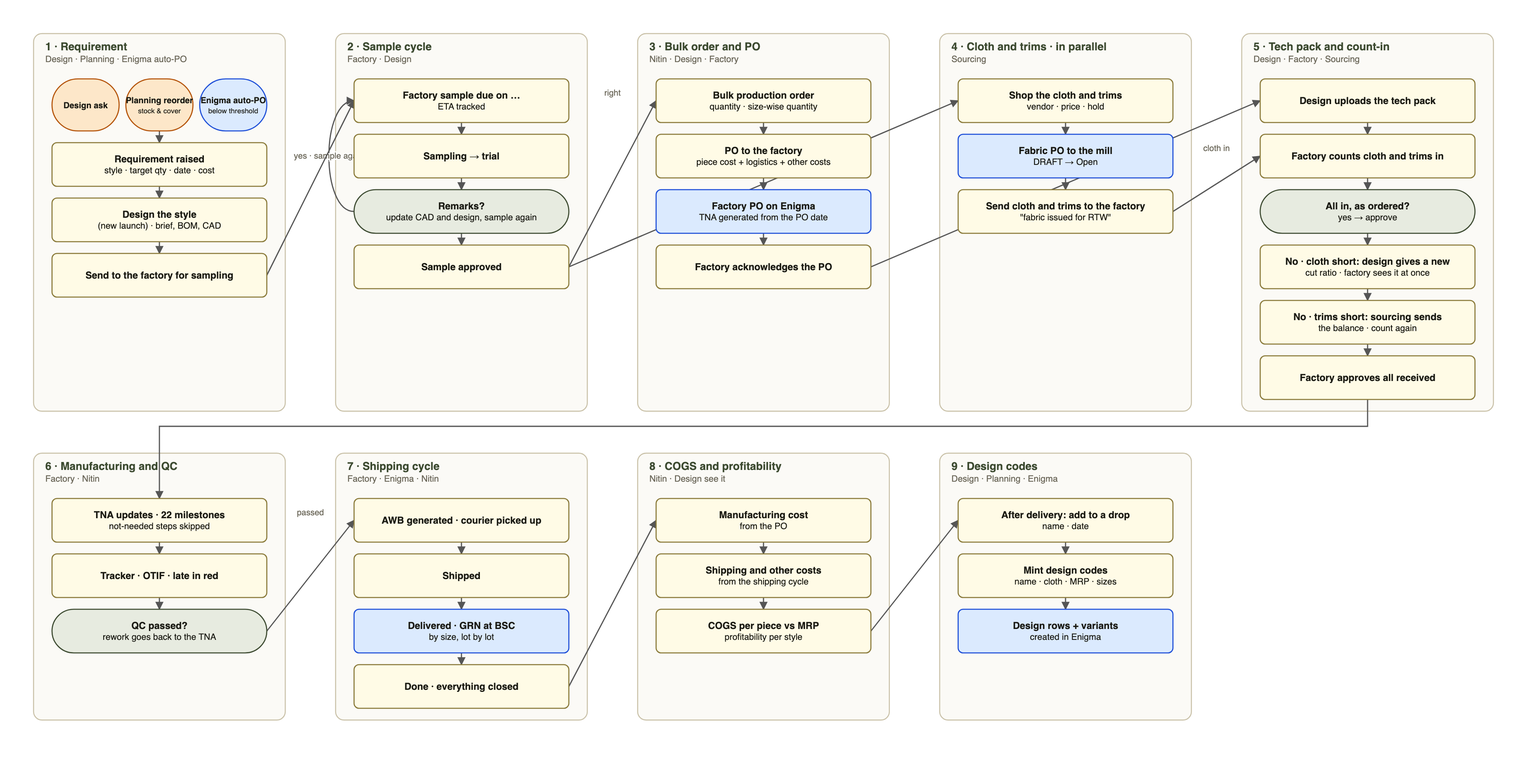
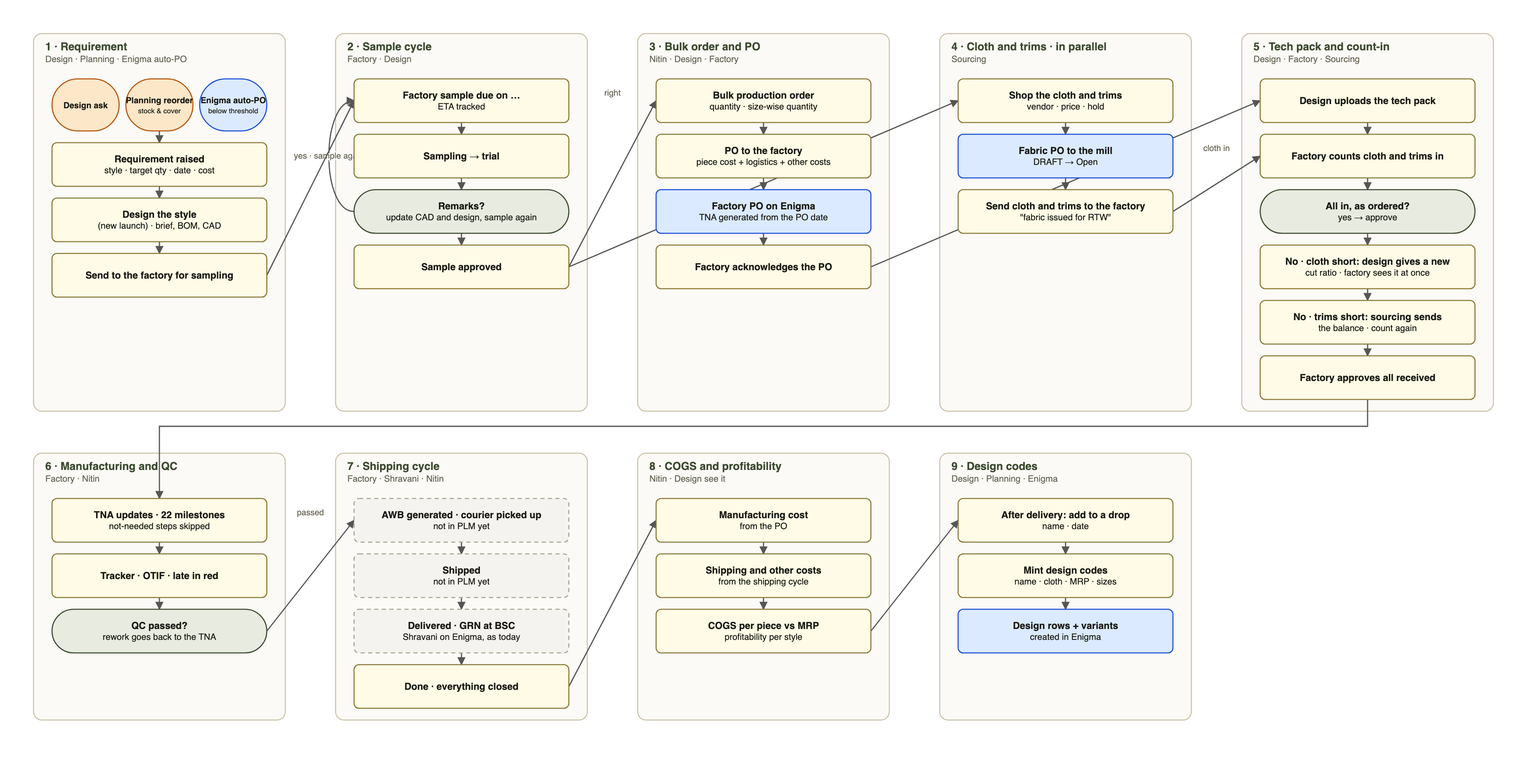
RTW diagrams: AWB/courier/shipped and the GRN marked as outside PLM for now (dashed, muted); GRN stays with Shravani on Enigma

Changed region(s): [[0.2173, 0.6167, 0.3725, 0.8634]]

diff --git a/public/docs/bsc-plm-rtw-modules.html b/public/docs/bsc-plm-rtw-modules.html
@@ -1,6 +1,6 @@
 <!doctype html><html lang="en"><head><meta charset="utf-8"><meta name="viewport" content="width=device-width, initial-scale=1"><title>RTW modules v2</title>
 <style>body{margin:0;background:#fff;color:#1a1a13;font-family:Inter,system-ui,sans-serif;padding:24px}h1{font-size:22px;margin:0 0 4px}p{margin:0 0 14px;color:#6b6759;font-size:13.5px}.legend{display:flex;gap:16px;font-size:12px;color:#6b6759;margin-bottom:10px;flex-wrap:wrap}.legend i{display:inline-block;width:14px;height:10px;border:1.4px solid;border-radius:3px;vertical-align:middle;margin-right:4px}.wrap{overflow:auto;border:1px solid #e3ddcd;border-radius:8px}svg{display:block}</style></head>
-<body><h1>RTW in PLM · nine modules (v2, after the 12 Nov meeting)</h1><p>In BSC's order: design and the sample cycle first, then the bulk order and PO (with logistics and other costs, acknowledged by the factory) with sourcing shopping the cloth and trims in parallel, the tech pack and count-in (design's new cut ratio goes straight to the factory), manufacturing on the TNA, QC, the shipping cycle (AWB, courier, shipped, delivered, closed), COGS that Nitin and design see, then the design codes. A requirement starts three ways: a design ask, a planning reorder, or an Enigma auto-PO on a core style below its threshold. Also as <a href="bsc-plm-rtw-modules.drawio" download>a draw.io file</a>, <a href="bsc-plm-rtw-modules.svg" download>SVG</a>; see also the <a href="bsc-plm-rtw-flowchart.html">flowchart</a> and the <a href="bsc-plm-rtw-swimlane.html">swimlane</a>.</p><div class="legend"><span><i style="background:#fde7c9;border-color:#b45309;border-radius:8px"></i> how a requirement starts</span><span><i style="background:#fffbe6;border-color:#8a7a3a"></i> step in PLM</span><span><i style="background:#e7ebe0;border-color:#3c4a30;border-radius:10px"></i> decision</span><span><i style="background:#dbeafe;border-color:#1d4ed8"></i> on Enigma</span></div><div class="wrap"><svg xmlns="http://www.w3.org/2000/svg" viewBox="0 0 1820 908" style="width:100%;height:auto;min-width:1100px" font-family="Inter, Helvetica, Arial, sans-serif">
+<body><h1>RTW in PLM · nine modules (v2, after the 12 Nov meeting)</h1><p>In BSC's order: design and the sample cycle first, then the bulk order and PO (with logistics and other costs, acknowledged by the factory) with sourcing shopping the cloth and trims in parallel, the tech pack and count-in (design's new cut ratio goes straight to the factory), manufacturing on the TNA, QC, the shipping cycle (AWB, courier, shipped, delivered, closed), COGS that Nitin and design see, then the design codes. A requirement starts three ways: a design ask, a planning reorder, or an Enigma auto-PO on a core style below its threshold. Also as <a href="bsc-plm-rtw-modules.drawio" download>a draw.io file</a>, <a href="bsc-plm-rtw-modules.svg" download>SVG</a>; see also the <a href="bsc-plm-rtw-flowchart.html">flowchart</a> and the <a href="bsc-plm-rtw-swimlane.html">swimlane</a>.</p><div class="legend"><span><i style="background:#fde7c9;border-color:#b45309;border-radius:8px"></i> how a requirement starts</span><span><i style="background:#fffbe6;border-color:#8a7a3a"></i> step in PLM</span><span><i style="background:#e7ebe0;border-color:#3c4a30;border-radius:10px"></i> decision</span><span><i style="background:#dbeafe;border-color:#1d4ed8"></i> on Enigma</span><span><i style="background:#f4f3ef;border:1.4px dashed #a9a391"></i> outside PLM for now</span></div><div class="wrap"><svg xmlns="http://www.w3.org/2000/svg" viewBox="0 0 1820 908" style="width:100%;height:auto;min-width:1100px" font-family="Inter, Helvetica, Arial, sans-serif">
 <defs><marker id="a" viewBox="0 0 10 10" refX="9" refY="5" markerWidth="7" markerHeight="7" orient="auto-start-reverse"><path d="M0 0L10 5L0 10z" fill="#555"/></marker></defs>
 <rect width="1820" height="908" fill="#fff"/>
 <rect x="40" y="40" width="300" height="450" rx="10" fill="#fbfaf6" stroke="#c9c1a8" stroke-width="1.2"/>
@@ -16,7 +16,7 @@
 <rect x="40" y="540" width="300" height="318" rx="10" fill="#fbfaf6" stroke="#c9c1a8" stroke-width="1.2"/>
 <text x="54" y="560" font-size="13" font-weight="700" fill="#3c4a30">6 · Manufacturing and QC</text><text x="54" y="574" font-size="10.5" fill="#6b6759">Factory · Nitin</text>
 <rect x="400" y="540" width="300" height="318" rx="10" fill="#fbfaf6" stroke="#c9c1a8" stroke-width="1.2"/>
-<text x="414" y="560" font-size="13" font-weight="700" fill="#3c4a30">7 · Shipping cycle</text><text x="414" y="574" font-size="10.5" fill="#6b6759">Factory · Enigma · Nitin</text>
+<text x="414" y="560" font-size="13" font-weight="700" fill="#3c4a30">7 · Shipping cycle</text><text x="414" y="574" font-size="10.5" fill="#6b6759">Factory · Shravani · Nitin</text>
 <rect x="760" y="540" width="300" height="318" rx="10" fill="#fbfaf6" stroke="#c9c1a8" stroke-width="1.2"/>
 <text x="774" y="560" font-size="13" font-weight="700" fill="#3c4a30">8 · COGS and profitability</text><text x="774" y="574" font-size="10.5" fill="#6b6759">Nitin · Design see it</text>
 <rect x="1120" y="540" width="300" height="318" rx="10" fill="#fbfaf6" stroke="#c9c1a8" stroke-width="1.2"/>
@@ -130,13 +130,15 @@
 <rect x="62.0" y="726" width="256" height="52" rx="26" fill="#e7ebe0" stroke="#3c4a30" stroke-width="1.3"/>
 <text x="190.0" y="749.5" text-anchor="middle" font-size="11.5" font-weight="600" fill="#1a1a13">QC passed?</text>
 <text x="190.0" y="762.5" text-anchor="middle" font-size="10.5" font-weight="400" fill="#1a1a13">rework goes back to the TNA</text>
-<rect x="422.0" y="594" width="256" height="52" rx="6" fill="#fffbe6" stroke="#8a7a3a" stroke-width="1.3"/>
-<text x="550.0" y="624.0" text-anchor="middle" font-size="11.5" font-weight="600" fill="#1a1a13">AWB generated · courier picked up</text>
-<rect x="422.0" y="660" width="256" height="52" rx="6" fill="#fffbe6" stroke="#8a7a3a" stroke-width="1.3"/>
-<text x="550.0" y="690.0" text-anchor="middle" font-size="11.5" font-weight="600" fill="#1a1a13">Shipped</text>
-<rect x="422.0" y="726" width="256" height="52" rx="6" fill="#dbeafe" stroke="#1d4ed8" stroke-width="1.3"/>
+<rect x="422.0" y="594" width="256" height="52" rx="6" fill="#f4f3ef" stroke="#a9a391" stroke-width="1.3" stroke-dasharray="5 4"/>
+<text x="550.0" y="617.5" text-anchor="middle" font-size="11.5" font-weight="600" fill="#1a1a13">AWB generated · courier picked up</text>
+<text x="550.0" y="630.5" text-anchor="middle" font-size="10.5" font-weight="400" fill="#1a1a13">not in PLM yet</text>
+<rect x="422.0" y="660" width="256" height="52" rx="6" fill="#f4f3ef" stroke="#a9a391" stroke-width="1.3" stroke-dasharray="5 4"/>
+<text x="550.0" y="683.5" text-anchor="middle" font-size="11.5" font-weight="600" fill="#1a1a13">Shipped</text>
+<text x="550.0" y="696.5" text-anchor="middle" font-size="10.5" font-weight="400" fill="#1a1a13">not in PLM yet</text>
+<rect x="422.0" y="726" width="256" height="52" rx="6" fill="#f4f3ef" stroke="#a9a391" stroke-width="1.3" stroke-dasharray="5 4"/>
 <text x="550.0" y="749.5" text-anchor="middle" font-size="11.5" font-weight="600" fill="#1a1a13">Delivered · GRN at BSC</text>
-<text x="550.0" y="762.5" text-anchor="middle" font-size="10.5" font-weight="400" fill="#1a1a13">by size, lot by lot</text>
+<text x="550.0" y="762.5" text-anchor="middle" font-size="10.5" font-weight="400" fill="#1a1a13">Shravani on Enigma, as today</text>
 <rect x="422.0" y="792" width="256" height="52" rx="6" fill="#fffbe6" stroke="#8a7a3a" stroke-width="1.3"/>
 <text x="550.0" y="822.0" text-anchor="middle" font-size="11.5" font-weight="600" fill="#1a1a13">Done · everything closed</text>
 <rect x="782.0" y="594" width="256" height="52" rx="6" fill="#fffbe6" stroke="#8a7a3a" stroke-width="1.3"/>

diff --git a/public/docs/bsc-plm-rtw-flowchart.html b/public/docs/bsc-plm-rtw-flowchart.html
@@ -1,6 +1,6 @@
 <!doctype html><html lang="en"><head><meta charset="utf-8"><meta name="viewport" content="width=device-width, initial-scale=1"><title>RTW flowchart</title>
 <style>body{margin:0;background:#fff;color:#1a1a13;font-family:Inter,system-ui,sans-serif;padding:24px}h1{font-size:22px;margin:0 0 4px}p{margin:0 0 14px;color:#6b6759;font-size:13.5px}.legend{display:flex;gap:16px;font-size:12px;color:#6b6759;margin-bottom:10px}.legend i{display:inline-block;width:14px;height:10px;border:1.4px solid;border-radius:3px;vertical-align:middle;margin-right:4px}.wrap{overflow:auto;border:1px solid #e3ddcd;border-radius:8px}svg{display:block}</style></head>
-<body><h1>RTW in PLM · the flow, box by box (v2, after the 12 Nov meeting)</h1><p>The main line snakes left to right, then down and back. Once the sample is right, sourcing shops the cloth and trims in parallel with the bulk order and PO. At count-in: all in goes straight to approval; cloth short goes to design, whose new cut ratio the factory sees at once; trims short goes to sourcing for the balance. Blue boxes are Enigma. The chart ends at the design codes. Also as <a href="bsc-plm-rtw-flowchart.drawio" download>a draw.io file</a>, <a href="bsc-plm-rtw-flowchart.svg" download>SVG</a>, and <a href="bsc-plm-rtw-swimlane.html">the same flow as a swimlane</a>.</p><div class="legend"><span><i style="background:#fffbe6;border-color:#8a7a3a"></i> step in PLM</span><span><i style="background:#e7ebe0;border-color:#3c4a30;border-radius:10px"></i> decision</span><span><i style="background:#dbeafe;border-color:#1d4ed8"></i> on Enigma</span><span>reads left to right, then down and back</span></div><div class="wrap"><svg xmlns="http://www.w3.org/2000/svg" viewBox="0 0 1396 992" style="width:100%;height:auto;min-width:1100px" font-family="Inter, Helvetica, Arial, sans-serif">
+<body><h1>RTW in PLM · the flow, box by box (v2, after the 12 Nov meeting)</h1><p>The main line snakes left to right, then down and back. Once the sample is right, sourcing shops the cloth and trims in parallel with the bulk order and PO. At count-in: all in goes straight to approval; cloth short goes to design, whose new cut ratio the factory sees at once; trims short goes to sourcing for the balance. Blue boxes are Enigma. The chart ends at the design codes. Also as <a href="bsc-plm-rtw-flowchart.drawio" download>a draw.io file</a>, <a href="bsc-plm-rtw-flowchart.svg" download>SVG</a>, and <a href="bsc-plm-rtw-swimlane.html">the same flow as a swimlane</a>.</p><div class="legend"><span><i style="background:#fffbe6;border-color:#8a7a3a"></i> step in PLM</span><span><i style="background:#e7ebe0;border-color:#3c4a30;border-radius:10px"></i> decision</span><span><i style="background:#dbeafe;border-color:#1d4ed8"></i> on Enigma</span><span><i style="background:#f4f3ef;border:1.4px dashed #a9a391"></i> outside PLM for now</span><span>reads left to right, then down and back</span></div><div class="wrap"><svg xmlns="http://www.w3.org/2000/svg" viewBox="0 0 1396 992" style="width:100%;height:auto;min-width:1100px" font-family="Inter, Helvetica, Arial, sans-serif">
 <defs><marker id="a" viewBox="0 0 10 10" refX="9" refY="5" markerWidth="7" markerHeight="7" orient="auto-start-reverse"><path d="M0 0L10 5L0 10z" fill="#555"/></marker></defs>
 <rect width="1396" height="992" fill="#fff"/>
 <path d="M226 69.0L266 69.0" fill="none" stroke="#555" stroke-width="1.4" marker-end="url(#a)"/>
@@ -101,13 +101,14 @@
 <rect x="266" y="600" width="186" height="58" rx="28" fill="#e7ebe0" stroke="#3c4a30" stroke-width="1.4"/>
 <text x="274" y="612" font-size="9" fill="#6b6759" font-weight="600" letter-spacing=".06em">FACTORY</text>
 <text x="359.0" y="635.0" text-anchor="middle" font-size="11.5" font-weight="600" fill="#1a1a13">QC passed?</text>
-<rect x="492" y="600" width="186" height="58" rx="6" fill="#fffbe6" stroke="#8a7a3a" stroke-width="1.4"/>
+<rect x="492" y="600" width="186" height="58" rx="6" fill="#f4f3ef" stroke="#a9a391" stroke-width="1.4" stroke-dasharray="5 4"/>
 <text x="500" y="612" font-size="9" fill="#6b6759" font-weight="600" letter-spacing=".06em">FACTORY</text>
-<text x="585.0" y="635.0" text-anchor="middle" font-size="11.5" font-weight="600" fill="#1a1a13">AWB · courier · shipped</text>
-<rect x="718" y="600" width="186" height="58" rx="6" fill="#dbeafe" stroke="#1d4ed8" stroke-width="1.4"/>
+<text x="585.0" y="628.5" text-anchor="middle" font-size="11.5" font-weight="600" fill="#1a1a13">AWB · courier · shipped</text>
+<text x="585.0" y="641.5" text-anchor="middle" font-size="10.5" font-weight="400" fill="#1a1a13">not in PLM yet</text>
+<rect x="718" y="600" width="186" height="58" rx="6" fill="#f4f3ef" stroke="#a9a391" stroke-width="1.4" stroke-dasharray="5 4"/>
 <text x="726" y="612" font-size="9" fill="#6b6759" font-weight="600" letter-spacing=".06em">ENIGMA</text>
 <text x="811.0" y="628.5" text-anchor="middle" font-size="11.5" font-weight="600" fill="#1a1a13">Delivered · GRN</text>
-<text x="811.0" y="641.5" text-anchor="middle" font-size="10.5" font-weight="400" fill="#1a1a13">by size, lot by lot</text>
+<text x="811.0" y="641.5" text-anchor="middle" font-size="10.5" font-weight="400" fill="#1a1a13">Shravani on Enigma, as today</text>
 <rect x="944" y="600" width="186" height="58" rx="6" fill="#fffbe6" stroke="#8a7a3a" stroke-width="1.4"/>
 <text x="952" y="612" font-size="9" fill="#6b6759" font-weight="600" letter-spacing=".06em">NITIN</text>
 <text x="1037.0" y="628.5" text-anchor="middle" font-size="11.5" font-weight="600" fill="#1a1a13">Close the shipment</text>

diff --git a/public/docs/bsc-plm-rtw-swimlane.html b/public/docs/bsc-plm-rtw-swimlane.html
@@ -1,6 +1,6 @@
 <!doctype html><html lang="en"><head><meta charset="utf-8"><meta name="viewport" content="width=device-width, initial-scale=1"><title>RTW swimlane</title>
 <style>body{margin:0;background:#fff;color:#1a1a13;font-family:Inter,system-ui,sans-serif;padding:24px}h1{font-size:22px;margin:0 0 4px}p{margin:0 0 14px;color:#6b6759;font-size:13.5px}.legend{display:flex;gap:16px;font-size:12px;color:#6b6759;margin-bottom:10px}.legend i{display:inline-block;width:14px;height:10px;border:1.4px solid;border-radius:3px;vertical-align:middle;margin-right:4px}.wrap{overflow:auto;border:1px solid #e3ddcd;border-radius:8px}svg{display:block}</style></head>
-<body><h1>RTW in PLM · the complete flow, one lane per role (v2, after the 12 Nov meeting)</h1><p>Left to right: design and the sample cycle → the bulk order and PO, with sourcing shopping the cloth in parallel from the approved sample → count-in (all in, cloth short to design, trims short to sourcing) → make and QC → shipping and COGS (Nitin and design see it) → design codes. Planning sits in the Design lane. Blue boxes are what happens on Enigma. Also as <a href="bsc-plm-rtw-swimlane.drawio" download>a draw.io file</a> and <a href="bsc-plm-rtw-swimlane.svg" download>SVG</a>.</p><div class="legend"><span><i style="background:#fffbe6;border-color:#8a7a3a"></i> step in PLM</span><span><i style="background:#e7ebe0;border-color:#3c4a30;border-radius:10px"></i> decision</span><span><i style="background:#dbeafe;border-color:#1d4ed8"></i> on Enigma</span></div><div class="wrap"><svg xmlns="http://www.w3.org/2000/svg" viewBox="0 0 5250 640" style="width:100%;height:auto;min-width:1400px" font-family="Inter, Helvetica, Arial, sans-serif">
+<body><h1>RTW in PLM · the complete flow, one lane per role (v2, after the 12 Nov meeting)</h1><p>Left to right: design and the sample cycle → the bulk order and PO, with sourcing shopping the cloth in parallel from the approved sample → count-in (all in, cloth short to design, trims short to sourcing) → make and QC → shipping and COGS (Nitin and design see it) → design codes. Planning sits in the Design lane. Blue boxes are what happens on Enigma. Also as <a href="bsc-plm-rtw-swimlane.drawio" download>a draw.io file</a> and <a href="bsc-plm-rtw-swimlane.svg" download>SVG</a>.</p><div class="legend"><span><i style="background:#fffbe6;border-color:#8a7a3a"></i> step in PLM</span><span><i style="background:#e7ebe0;border-color:#3c4a30;border-radius:10px"></i> decision</span><span><i style="background:#dbeafe;border-color:#1d4ed8"></i> on Enigma</span><span><i style="background:#f4f3ef;border:1.4px dashed #a9a391"></i> outside PLM for now</span></div><div class="wrap"><svg xmlns="http://www.w3.org/2000/svg" viewBox="0 0 5250 640" style="width:100%;height:auto;min-width:1400px" font-family="Inter, Helvetica, Arial, sans-serif">
 <defs><marker id="a" viewBox="0 0 10 10" refX="9" refY="5" markerWidth="7" markerHeight="7" orient="auto-start-reverse"><path d="M0 0L10 5L0 10z" fill="#555"/></marker></defs>
 <rect width="5250" height="640" fill="#fff"/>
 <rect x="130" y="22" width="1370" height="26" rx="6" fill="#efeadf"/><text x="815.0" y="40" text-anchor="middle" font-size="13" font-weight="600" fill="#3c4a30">Design · sample</text>
@@ -137,12 +137,12 @@
 <rect x="3600" y="427.0" width="190" height="56" rx="28" fill="#e7ebe0" stroke="#3c4a30" stroke-width="1.4"/>
 <text x="3695.0" y="452.0" text-anchor="middle" font-size="11.5" font-weight="600" fill="#1a1a13">QC passed?</text>
 <text x="3695.0" y="466.0" text-anchor="middle" font-size="10.5" font-weight="400" fill="#1a1a13">or rework</text>
-<rect x="3830" y="427.0" width="190" height="56" rx="6" fill="#fffbe6" stroke="#8a7a3a" stroke-width="1.4"/>
-<text x="3925.0" y="452.0" text-anchor="middle" font-size="11.5" font-weight="600" fill="#1a1a13">AWB · courier</text>
-<text x="3925.0" y="466.0" text-anchor="middle" font-size="10.5" font-weight="400" fill="#1a1a13">shipped</text>
-<rect x="4060" y="537.0" width="190" height="56" rx="6" fill="#dbeafe" stroke="#1d4ed8" stroke-width="1.4"/>
+<rect x="3830" y="427.0" width="190" height="56" rx="6" fill="#f4f3ef" stroke="#a9a391" stroke-width="1.4" stroke-dasharray="5 4"/>
+<text x="3925.0" y="452.0" text-anchor="middle" font-size="11.5" font-weight="600" fill="#1a1a13">AWB · courier · shipped</text>
+<text x="3925.0" y="466.0" text-anchor="middle" font-size="10.5" font-weight="400" fill="#1a1a13">not in PLM yet</text>
+<rect x="4060" y="537.0" width="190" height="56" rx="6" fill="#f4f3ef" stroke="#a9a391" stroke-width="1.4" stroke-dasharray="5 4"/>
 <text x="4155.0" y="562.0" text-anchor="middle" font-size="11.5" font-weight="600" fill="#1a1a13">Delivered · GRN</text>
-<text x="4155.0" y="576.0" text-anchor="middle" font-size="10.5" font-weight="400" fill="#1a1a13">by size, lot by lot</text>
+<text x="4155.0" y="576.0" text-anchor="middle" font-size="10.5" font-weight="400" fill="#1a1a13">Shravani on Enigma, as today</text>
 <rect x="4290" y="317.0" width="190" height="56" rx="6" fill="#fffbe6" stroke="#8a7a3a" stroke-width="1.4"/>
 <text x="4385.0" y="342.0" text-anchor="middle" font-size="11.5" font-weight="600" fill="#1a1a13">Close the shipment</text>
 <text x="4385.0" y="356.0" text-anchor="middle" font-size="10.5" font-weight="400" fill="#1a1a13">shipping cost</text>

diff --git a/public/docs/.modules.py b/public/docs/.modules.py
@@ -32,10 +32,10 @@ M = [
    ('m1','TNA updates · 22 milestones\nnot-needed steps skipped','step'),
    ('m2','Tracker · OTIF · late in red','step'),
    ('q2','QC passed?\nrework goes back to the TNA','decision')]),
- ('ship','7 · Shipping cycle','Factory · Enigma · Nitin',[
-   ('x1','AWB generated · courier picked up','step'),
-   ('x2','Shipped','step'),
-   ('x3','Delivered · GRN at BSC\nby size, lot by lot','system'),
+ ('ship','7 · Shipping cycle','Factory · Shravani · Nitin',[
+   ('x1','AWB generated · courier picked up\nnot in PLM yet','outside'),
+   ('x2','Shipped\nnot in PLM yet','outside'),
+   ('x3','Delivered · GRN at BSC\nShravani on Enigma, as today','outside'),
    ('x4','Done · everything closed','step')]),
  ('cogs','8 · COGS and profitability','Nitin · Design see it',[
    ('c1','Manufacturing cost\nfrom the PO','step'),
@@ -51,8 +51,9 @@ INTER=[('r3','s1',''),('s4','p1','right'),('s4','h1','right · in parallel'),('p
 LOOPS=[('s3','s1','yes · sample again')]
 # layout
 COLS=5; MW=300; NW=256; NH=52; GAP=14; PAD=14; HEAD=40; MX=40; MY=40; GX=MW+60; SRC_W=76
-FILL={'step':'#fffbe6','decision':'#e7ebe0','system':'#dbeafe','source':'#fde7c9','sourcesys':'#dbeafe'}
-STROKE={'step':'#8a7a3a','decision':'#3c4a30','system':'#1d4ed8','source':'#b45309','sourcesys':'#1d4ed8'}
+FILL={'step':'#fffbe6','decision':'#e7ebe0','system':'#dbeafe','source':'#fde7c9','sourcesys':'#dbeafe','outside':'#f4f3ef'}
+STROKE={'step':'#8a7a3a','decision':'#3c4a30','system':'#1d4ed8','source':'#b45309','sourcesys':'#1d4ed8','outside':'#a9a391'}
+DASHED=' stroke-dasharray="5 4"'
 def esc(s): return html.escape(s)
 def mod_height(nodes): return HEAD+PAD+sum((NH if k!='sourcesrow' else NH+10)+GAP for _,_,k in nodes)-GAP+PAD
 rows=[M[i:i+COLS] for i in range(0,len(M),COLS)]
@@ -106,16 +107,16 @@ for nid,(x,y0,w,h,kind,label) in pos.items():
             for j,t in enumerate(lines): svg.append(f'<text x="{sx+sw/2}" y="{y0+h/2+4+(j-(len(lines)-1)/2)*12}" text-anchor="middle" font-size="{10 if j==0 else 8.5}" font-weight="{600 if j==0 else 400}" fill="#1a1a13">{esc(t)}</text>')
         continue
     lines=label.split('\n')
-    svg.append(f'<rect x="{x}" y="{y0}" width="{w}" height="{h}" rx="{26 if kind=="decision" else 6}" fill="{FILL[kind]}" stroke="{STROKE[kind]}" stroke-width="1.3"/>')
+    svg.append(f'<rect x="{x}" y="{y0}" width="{w}" height="{h}" rx="{26 if kind=="decision" else 6}" fill="{FILL[kind]}" stroke="{STROKE[kind]}" stroke-width="1.3"{DASHED if kind=="outside" else ""}/>')
     for j,t in enumerate(lines): svg.append(f'<text x="{x+w/2}" y="{y0+h/2+4+(j-(len(lines)-1)/2)*13}" text-anchor="middle" font-size="{11.5 if j==0 else 10.5}" font-weight="{600 if j==0 else 400}" fill="#1a1a13">{esc(t)}</text>')
 svg.append('</svg>'); svg_text='\n'.join(svg); open(out_svg,'w').write(svg_text)
-legend='<div class="legend"><span><i style="background:#fde7c9;border-color:#b45309;border-radius:8px"></i> how a requirement starts</span><span><i style="background:#fffbe6;border-color:#8a7a3a"></i> step in PLM</span><span><i style="background:#e7ebe0;border-color:#3c4a30;border-radius:10px"></i> decision</span><span><i style="background:#dbeafe;border-color:#1d4ed8"></i> on Enigma</span></div>'
+legend='<div class="legend"><span><i style="background:#fde7c9;border-color:#b45309;border-radius:8px"></i> how a requirement starts</span><span><i style="background:#fffbe6;border-color:#8a7a3a"></i> step in PLM</span><span><i style="background:#e7ebe0;border-color:#3c4a30;border-radius:10px"></i> decision</span><span><i style="background:#dbeafe;border-color:#1d4ed8"></i> on Enigma</span><span><i style="background:#f4f3ef;border:1.4px dashed #a9a391"></i> outside PLM for now</span></div>'
 page=f'''<!doctype html><html lang="en"><head><meta charset="utf-8"><meta name="viewport" content="width=device-width, initial-scale=1"><title>RTW modules v2</title>
 <style>body{{margin:0;background:#fff;color:#1a1a13;font-family:Inter,system-ui,sans-serif;padding:24px}}h1{{font-size:22px;margin:0 0 4px}}p{{margin:0 0 14px;color:#6b6759;font-size:13.5px}}.legend{{display:flex;gap:16px;font-size:12px;color:#6b6759;margin-bottom:10px;flex-wrap:wrap}}.legend i{{display:inline-block;width:14px;height:10px;border:1.4px solid;border-radius:3px;vertical-align:middle;margin-right:4px}}.wrap{{overflow:auto;border:1px solid #e3ddcd;border-radius:8px}}svg{{display:block}}</style></head>
 <body><h1>RTW in PLM · nine modules (v2, after the 12 Nov meeting)</h1><p>In BSC's order: design and the sample cycle first, then the bulk order and PO (with logistics and other costs, acknowledged by the factory) with sourcing shopping the cloth and trims in parallel, the tech pack and count-in (design's new cut ratio goes straight to the factory), manufacturing on the TNA, QC, the shipping cycle (AWB, courier, shipped, delivered, closed), COGS that Nitin and design see, then the design codes. A requirement starts three ways: a design ask, a planning reorder, or an Enigma auto-PO on a core style below its threshold. Also as <a href="bsc-plm-rtw-modules.drawio" download>a draw.io file</a>, <a href="bsc-plm-rtw-modules.svg" download>SVG</a>; see also the <a href="bsc-plm-rtw-flowchart.html">flowchart</a> and the <a href="bsc-plm-rtw-swimlane.html">swimlane</a>.</p>{legend}<div class="wrap">{svg_text.replace(f'width="{width}" height="{height}"', 'style="width:100%;height:auto;min-width:1100px"',1)}</div></body></html>'''
 open(out_html,'w').write(page)
 # draw.io
-STY={'step':'rounded=0;whiteSpace=wrap;html=1;fillColor=#fffbe6;strokeColor=#8a7a3a;fontSize=11;','decision':'rounded=1;arcSize=50;whiteSpace=wrap;html=1;fillColor=#e7ebe0;strokeColor=#3c4a30;fontSize=11;','system':'rounded=0;whiteSpace=wrap;html=1;fillColor=#dbeafe;strokeColor=#1d4ed8;fontSize=11;','source':'ellipse;whiteSpace=wrap;html=1;fillColor=#fde7c9;strokeColor=#b45309;fontSize=10;','sourcesys':'ellipse;whiteSpace=wrap;html=1;fillColor=#dbeafe;strokeColor=#1d4ed8;fontSize=10;'}
+STY={'outside':'rounded=0;whiteSpace=wrap;html=1;fillColor=#f4f3ef;strokeColor=#a9a391;dashed=1;fontColor=#6b6759;fontSize=11;','step':'rounded=0;whiteSpace=wrap;html=1;fillColor=#fffbe6;strokeColor=#8a7a3a;fontSize=11;','decision':'rounded=1;arcSize=50;whiteSpace=wrap;html=1;fillColor=#e7ebe0;strokeColor=#3c4a30;fontSize=11;','system':'rounded=0;whiteSpace=wrap;html=1;fillColor=#dbeafe;strokeColor=#1d4ed8;fontSize=11;','source':'ellipse;whiteSpace=wrap;html=1;fillColor=#fde7c9;strokeColor=#b45309;fontSize=10;','sourcesys':'ellipse;whiteSpace=wrap;html=1;fillColor=#dbeafe;strokeColor=#1d4ed8;fontSize=10;'}
 cells=['<mxCell id="0"/>','<mxCell id="1" parent="0"/>']
 for k,t,w,nodes in M:
     x,y0,mw,mh=mpos[k]

diff --git a/public/docs/.swimlane.py b/public/docs/.swimlane.py
@@ -28,8 +28,8 @@ N = [
  ('f5','factory',14,'Make · log the TNA\n22 milestones','step'),
  ('n3','nitin',14,'Tracker · OTIF\nescalations','step'),
  ('f6','factory',15,'QC passed?\nor rework','decision'),
- ('f7','factory',16,'AWB · courier\nshipped','step'),
- ('e4','enigma',17,'Delivered · GRN\nby size, lot by lot','system'),
+ ('f7','factory',16,'AWB · courier · shipped\nnot in PLM yet','outside'),
+ ('e4','enigma',17,'Delivered · GRN\nShravani on Enigma, as today','outside'),
  ('n4','nitin',18,'Close the shipment\nshipping cost','step'),
  ('cg','nitin',19,'COGS vs MRP\nNitin and design see it','step'),
  ('p3','design',20,'Add to a drop\nmarketing name · date','step'),
@@ -51,8 +51,9 @@ width = X0 + cols*GX + 40; height = Y0 + len(LANES)*LANE_H + 20
 lane_y = {k: Y0 + i*LANE_H for i,(k,_) in enumerate(LANES)}
 pos = {n[0]: (X0 + n[2]*GX, lane_y[n[1]] + (LANE_H-H)/2) for n in N}
 node = {n[0]: n for n in N}
-FILL = {'step':'#fffbe6','decision':'#e7ebe0','system':'#dbeafe','loop':'#fde2e2'}
-STROKE = {'step':'#8a7a3a','decision':'#3c4a30','system':'#1d4ed8','loop':'#b91c1c'}
+FILL = {'step':'#fffbe6','decision':'#e7ebe0','system':'#dbeafe','loop':'#fde2e2','outside':'#f4f3ef'}
+STROKE = {'step':'#8a7a3a','decision':'#3c4a30','system':'#1d4ed8','loop':'#b91c1c','outside':'#a9a391'}
+DASHED=' stroke-dasharray="5 4"'
 
 def esc(s): return html.escape(s)
 svg = [f'<svg xmlns="http://www.w3.org/2000/svg" viewBox="0 0 {width} {height}" width="{width}" height="{height}" font-family="Inter, Helvetica, Arial, sans-serif">',
@@ -81,13 +82,13 @@ for a,b,l in E: edge(a,b,l)
 for nid,lane,col,label,kind in N:
     x,y=pos[nid]; lines=label.split('\n')
     if kind=='decision': svg.append(f'<rect x="{x}" y="{y}" width="{W}" height="{H}" rx="28" fill="{FILL[kind]}" stroke="{STROKE[kind]}" stroke-width="1.4"/>')
-    else: svg.append(f'<rect x="{x}" y="{y}" width="{W}" height="{H}" rx="6" fill="{FILL[kind]}" stroke="{STROKE[kind]}" stroke-width="1.4"/>')
+    else: svg.append(f'<rect x="{x}" y="{y}" width="{W}" height="{H}" rx="6" fill="{FILL[kind]}" stroke="{STROKE[kind]}" stroke-width="1.4"{DASHED if kind=="outside" else ""}/>')
     for i,t in enumerate(lines):
         svg.append(f'<text x="{x+W/2}" y="{y+H/2+(i-(len(lines)-1)/2)*14+4}" text-anchor="middle" font-size="{11.5 if i==0 else 10.5}" font-weight="{600 if i==0 else 400}" fill="#1a1a13">{esc(t)}</text>')
 svg.append('</svg>')
 svg_text='\n'.join(svg)
 open(out_svg,'w').write(svg_text)
-legend='<div class="legend"><span><i style="background:#fffbe6;border-color:#8a7a3a"></i> step in PLM</span><span><i style="background:#e7ebe0;border-color:#3c4a30;border-radius:10px"></i> decision</span><span><i style="background:#dbeafe;border-color:#1d4ed8"></i> on Enigma</span></div>'
+legend='<div class="legend"><span><i style="background:#fffbe6;border-color:#8a7a3a"></i> step in PLM</span><span><i style="background:#e7ebe0;border-color:#3c4a30;border-radius:10px"></i> decision</span><span><i style="background:#dbeafe;border-color:#1d4ed8"></i> on Enigma</span><span><i style="background:#f4f3ef;border:1.4px dashed #a9a391"></i> outside PLM for now</span></div>'
 page=f'''<!doctype html><html lang="en"><head><meta charset="utf-8"><meta name="viewport" content="width=device-width, initial-scale=1"><title>RTW swimlane</title>
 <style>body{{margin:0;background:#fff;color:#1a1a13;font-family:Inter,system-ui,sans-serif;padding:24px}}h1{{font-size:22px;margin:0 0 4px}}p{{margin:0 0 14px;color:#6b6759;font-size:13.5px}}.legend{{display:flex;gap:16px;font-size:12px;color:#6b6759;margin-bottom:10px}}.legend i{{display:inline-block;width:14px;height:10px;border:1.4px solid;border-radius:3px;vertical-align:middle;margin-right:4px}}.wrap{{overflow:auto;border:1px solid #e3ddcd;border-radius:8px}}svg{{display:block}}</style></head>
 <body><h1>RTW in PLM · the complete flow, one lane per role (v2, after the 12 Nov meeting)</h1><p>Left to right: design and the sample cycle → the bulk order and PO, with sourcing shopping the cloth in parallel from the approved sample → count-in (all in, cloth short to design, trims short to sourcing) → make and QC → shipping and COGS (Nitin and design see it) → design codes. Planning sits in the Design lane. Blue boxes are what happens on Enigma. Also as <a href="bsc-plm-rtw-swimlane.drawio" download>a draw.io file</a> and <a href="bsc-plm-rtw-swimlane.svg" download>SVG</a>.</p>{legend}<div class="wrap">{svg_text.replace(f'width="{width}" height="{height}"', 'style="width:100%;height:auto;min-width:1400px"',1)}</div></body></html>'''
@@ -98,7 +99,7 @@ cells=['<mxCell id="0"/>','<mxCell id="1" parent="0"/>']
 lane_w = width-20
 for i,(k,label) in enumerate(LANES):
     cells.append(f'<mxCell id="lane_{k}" value="{esc(label)}" style="swimlane;horizontal=0;startSize=120;fillColor=#efeadf;strokeColor=#c9c1a8;fontStyle=1;" vertex="1" parent="1"><mxGeometry x="0" y="{i*LANE_H}" width="{lane_w}" height="{LANE_H}" as="geometry"/></mxCell>')
-STY={'step':'rounded=0;whiteSpace=wrap;html=1;fillColor=#fffbe6;strokeColor=#8a7a3a;fontSize=11;','decision':'rounded=1;arcSize=50;whiteSpace=wrap;html=1;fillColor=#e7ebe0;strokeColor=#3c4a30;fontSize=11;','system':'rounded=0;whiteSpace=wrap;html=1;fillColor=#dbeafe;strokeColor=#1d4ed8;fontSize=11;'}
+STY={'outside':'rounded=0;whiteSpace=wrap;html=1;fillColor=#f4f3ef;strokeColor=#a9a391;dashed=1;fontColor=#6b6759;fontSize=11;','step':'rounded=0;whiteSpace=wrap;html=1;fillColor=#fffbe6;strokeColor=#8a7a3a;fontSize=11;','decision':'rounded=1;arcSize=50;whiteSpace=wrap;html=1;fillColor=#e7ebe0;strokeColor=#3c4a30;fontSize=11;','system':'rounded=0;whiteSpace=wrap;html=1;fillColor=#dbeafe;strokeColor=#1d4ed8;fontSize=11;'}
 for nid,lane,col,label,kind in N:
     v=esc(label).replace('\n','&lt;br&gt;')
     cells.append(f'<mxCell id="{nid}" value="{v}" style="{STY[kind]}" vertex="1" parent="lane_{lane}"><mxGeometry x="{X0-10+col*GX}" y="{(LANE_H-H)/2}" width="{W}" height="{H}" as="geometry"/></mxCell>')

diff --git a/public/docs/.flowchart.py b/public/docs/.flowchart.py
@@ -17,8 +17,8 @@ SPINE = [
  ('f4','factory','Approve all received','step'),
  ('f5','factory','Make · log the TNA\n22 milestones','step'),
  ('f6','factory','QC passed?','decision'),
- ('f7','factory','AWB · courier · shipped','step'),
- ('e4','enigma','Delivered · GRN\nby size, lot by lot','system'),
+ ('f7','factory','AWB · courier · shipped\nnot in PLM yet','outside'),
+ ('e4','enigma','Delivered · GRN\nShravani on Enigma, as today','outside'),
  ('n4','nitin','Close the shipment\nshipping cost','step'),
  ('cg','nd','COGS vs MRP\nmargin per style','step'),
  ('p3','dp','Add to a drop\nname · date','step'),
@@ -39,7 +39,8 @@ SIDE = [
 # back-loops and joins: from, to, label
 LOOPS = [('d4','f1','no · remarks → update CAD and design · next round'),('d6','n1','send back'),('f6','f5','rework'),('d9','f4','then'),('t9','f3','count again'),('f3b','f4','yes'),('d4','n1','yes'),('f6','f7','yes'),('s2','f3','cloth and trims in')]
 COLS=6; W,H=186,58; GX=226; SUB=H+26; X0,Y0=40,40
-FILL={'step':'#fffbe6','decision':'#e7ebe0','system':'#dbeafe'}; STROKE={'step':'#8a7a3a','decision':'#3c4a30','system':'#1d4ed8'}
+FILL={'step':'#fffbe6','decision':'#e7ebe0','system':'#dbeafe','outside':'#f4f3ef'}; STROKE={'step':'#8a7a3a','decision':'#3c4a30','system':'#1d4ed8','outside':'#a9a391'}
+DASHED=' stroke-dasharray="5 4"'
 node={}
 for n in SPINE: node[n[0]]=n
 for p,i,r,l,k,_ in SIDE: node[i]=(i,r,l,k)
@@ -124,18 +125,18 @@ for a,b,lab in LOOPS:
         svg.append(f'<text x="{x}" y="{ay+H/2-6}" font-size="10.5" fill="#6b6759" text-anchor="middle" paint-order="stroke" stroke="#fff" stroke-width="3">{esc(lab)}</text>')
 for nid,(x,y) in pos.items():
     _,role,label,kind=node[nid][:4]; lines=label.split('\n')
-    svg.append(f'<rect x="{x}" y="{y}" width="{W}" height="{H}" rx="{28 if kind=="decision" else 6}" fill="{FILL[kind]}" stroke="{STROKE[kind]}" stroke-width="1.4"/>')
+    svg.append(f'<rect x="{x}" y="{y}" width="{W}" height="{H}" rx="{28 if kind=="decision" else 6}" fill="{FILL[kind]}" stroke="{STROKE[kind]}" stroke-width="1.4"{DASHED if kind=="outside" else ""}/>')
     svg.append(f'<text x="{x+8}" y="{y+12}" font-size="9" fill="#6b6759" font-weight="600" letter-spacing=".06em">{esc(ROLE[role].upper())}</text>')
     for i,t in enumerate(lines):
         svg.append(f'<text x="{x+W/2}" y="{y+H/2+6+(i-(len(lines)-1)/2)*13}" text-anchor="middle" font-size="{11.5 if i==0 else 10.5}" font-weight="{600 if i==0 else 400}" fill="#1a1a13">{esc(t)}</text>')
 svg.append('</svg>'); svg_text='\n'.join(svg)
 open(out_svg,'w').write(svg_text)
-legend='<div class="legend"><span><i style="background:#fffbe6;border-color:#8a7a3a"></i> step in PLM</span><span><i style="background:#e7ebe0;border-color:#3c4a30;border-radius:10px"></i> decision</span><span><i style="background:#dbeafe;border-color:#1d4ed8"></i> on Enigma</span><span>reads left to right, then down and back</span></div>'
+legend='<div class="legend"><span><i style="background:#fffbe6;border-color:#8a7a3a"></i> step in PLM</span><span><i style="background:#e7ebe0;border-color:#3c4a30;border-radius:10px"></i> decision</span><span><i style="background:#dbeafe;border-color:#1d4ed8"></i> on Enigma</span><span><i style="background:#f4f3ef;border:1.4px dashed #a9a391"></i> outside PLM for now</span><span>reads left to right, then down and back</span></div>'
 page=f'''<!doctype html><html lang="en"><head><meta charset="utf-8"><meta name="viewport" content="width=device-width, initial-scale=1"><title>RTW flowchart</title>
 <style>body{{margin:0;background:#fff;color:#1a1a13;font-family:Inter,system-ui,sans-serif;padding:24px}}h1{{font-size:22px;margin:0 0 4px}}p{{margin:0 0 14px;color:#6b6759;font-size:13.5px}}.legend{{display:flex;gap:16px;font-size:12px;color:#6b6759;margin-bottom:10px}}.legend i{{display:inline-block;width:14px;height:10px;border:1.4px solid;border-radius:3px;vertical-align:middle;margin-right:4px}}.wrap{{overflow:auto;border:1px solid #e3ddcd;border-radius:8px}}svg{{display:block}}</style></head>
 <body><h1>RTW in PLM · the flow, box by box (v2, after the 12 Nov meeting)</h1><p>The main line snakes left to right, then down and back. Once the sample is right, sourcing shops the cloth and trims in parallel with the bulk order and PO. At count-in: all in goes straight to approval; cloth short goes to design, whose new cut ratio the factory sees at once; trims short goes to sourcing for the balance. Blue boxes are Enigma. The chart ends at the design codes. Also as <a href="bsc-plm-rtw-flowchart.drawio" download>a draw.io file</a>, <a href="bsc-plm-rtw-flowchart.svg" download>SVG</a>, and <a href="bsc-plm-rtw-swimlane.html">the same flow as a swimlane</a>.</p>{legend}<div class="wrap">{svg_text.replace(f'width="{width}" height="{height}"', 'style="width:100%;height:auto;min-width:1100px"',1)}</div></body></html>'''
 open(out_html,'w').write(page)
-STY={'step':'rounded=0;whiteSpace=wrap;html=1;fillColor=#fffbe6;strokeColor=#8a7a3a;fontSize=11;','decision':'rounded=1;arcSize=50;whiteSpace=wrap;html=1;fillColor=#e7ebe0;strokeColor=#3c4a30;fontSize=11;','system':'rounded=0;whiteSpace=wrap;html=1;fillColor=#dbeafe;strokeColor=#1d4ed8;fontSize=11;'}
+STY={'outside':'rounded=0;whiteSpace=wrap;html=1;fillColor=#f4f3ef;strokeColor=#a9a391;dashed=1;fontColor=#6b6759;fontSize=11;','step':'rounded=0;whiteSpace=wrap;html=1;fillColor=#fffbe6;strokeColor=#8a7a3a;fontSize=11;','decision':'rounded=1;arcSize=50;whiteSpace=wrap;html=1;fillColor=#e7ebe0;strokeColor=#3c4a30;fontSize=11;','system':'rounded=0;whiteSpace=wrap;html=1;fillColor=#dbeafe;strokeColor=#1d4ed8;fontSize=11;'}
 cells=['<mxCell id="0"/>','<mxCell id="1" parent="0"/>']
 for nid,(x,y) in pos.items():
     _,role,label,kind=node[nid][:4]
